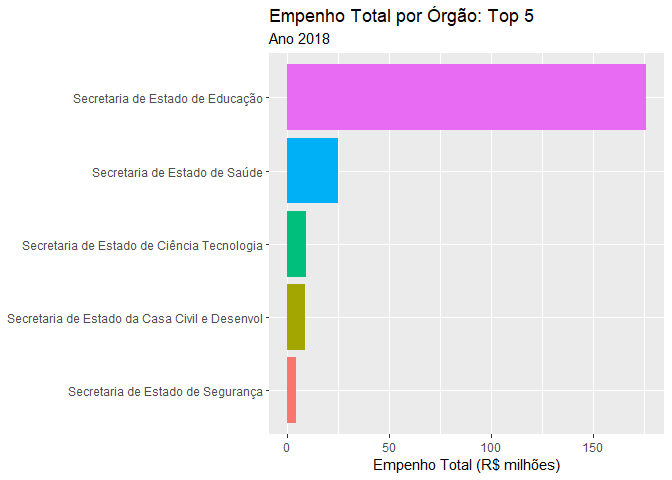
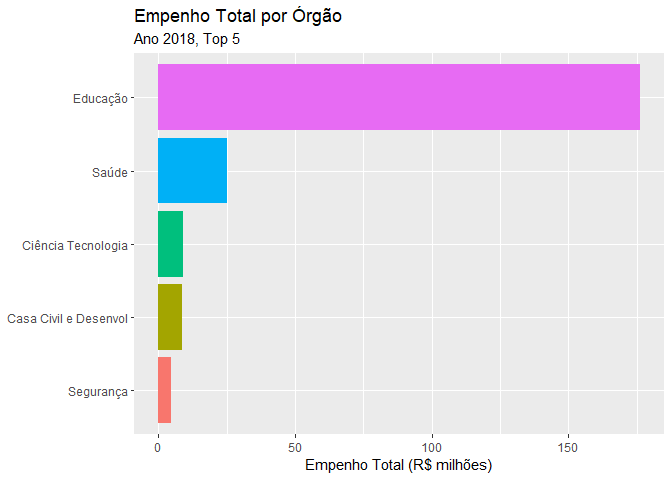
removed secretaria de estado

diff --git a/empenho.md b/empenho.md
@@ -243,7 +243,8 @@ Empenho total por órgão: Top 5
 ``` r
 df_orcamento %>%
   rename(orgao=`Nome Órgão`) %>%
-  mutate(orgao=orgao%>%fct_reorder(-Empenho,sum)) %>%
+  mutate(orgao=orgao%>%str_remove("^Secretaria d[aeo] Estado d[aeo] "),
+         orgao=orgao%>%fct_reorder(-Empenho,sum)) %>%
   filter(as.integer(orgao)<6) %>%
   mutate(orgao=orgao%>%fct_rev) %>%
   group_by(orgao) %>%
@@ -251,8 +252,8 @@ df_orcamento %>%
   ggplot(aes(orgao,total)) +
   geom_col(aes(fill=orgao)) +
   coord_flip() +
-  labs(title="Empenho Total por Órgão: Top 5",
-       subtitle="Ano 2018",
+  labs(title="Empenho Total por Órgão",
+       subtitle="Ano 2018, Top 5",
        y="Empenho Total (R$ milhões)") +
   theme(legend.position = "none",
         axis.title.y=element_blank())
@@ -265,37 +266,18 @@ Distribuição do Empenho por Órgão (boxbplot)
 ``` r
 df_orcamento %>%
   rename(orgao=`Nome Órgão`) %>%
-  mutate(orgao=orgao%>%fct_reorder(-Empenho)) %>%
+  mutate(orgao=orgao%>%str_remove("^Secretaria d[aeo] Estado d[aeo] "),
+         orgao=orgao%>%fct_reorder(-Empenho)) %>%
   filter(as.integer(orgao)<6) %>%
   mutate(orgao=orgao%>%fct_rev) %>%
   ggplot(aes(orgao,Empenho)) +
   geom_boxplot(aes(fill=orgao),notch=T) +
   scale_y_log10() +
   coord_flip() +
-  labs(title="Empenhos Medianos por Órgão: Top 5",
-       subtitle="Ano 2018") +
+  labs(title="Distribuição dos Empenhos por Órgão",
+       subtitle="Ano 2018, Top 5 medianas") +
   theme(legend.position = "none",
         axis.title.y=element_blank())
 ```
 
 ![](empenho_files/figure-gfm/unnamed-chunk-12-1.png)<!-- -->
-
-Distribuição do Empenho por Órgão (violin plot)
-
-``` r
-df_orcamento %>%
-  rename(orgao=`Nome Órgão`) %>%
-  mutate(orgao=orgao%>%fct_reorder(-Empenho)) %>%
-  filter(as.integer(orgao)<6) %>%
-  mutate(orgao=orgao%>%fct_rev) %>%
-  ggplot(aes(orgao,Empenho)) +
-  geom_violin(aes(fill=orgao)) +
-  scale_y_log10() +
-  coord_flip() +
-  labs(title="Empenhos Medianos por Órgão: Top 5",
-       subtitle="Ano 2018") +
-  theme(legend.position = "none",
-        axis.title.y=element_blank())
-```
-
-![](empenho_files/figure-gfm/unnamed-chunk-13-1.png)<!-- -->
